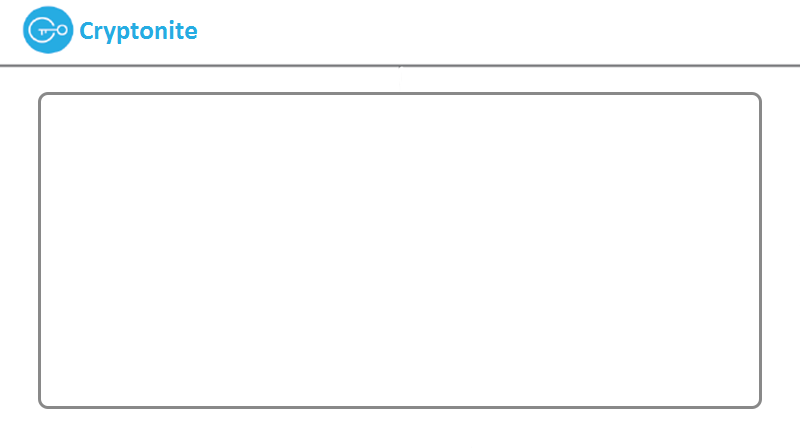
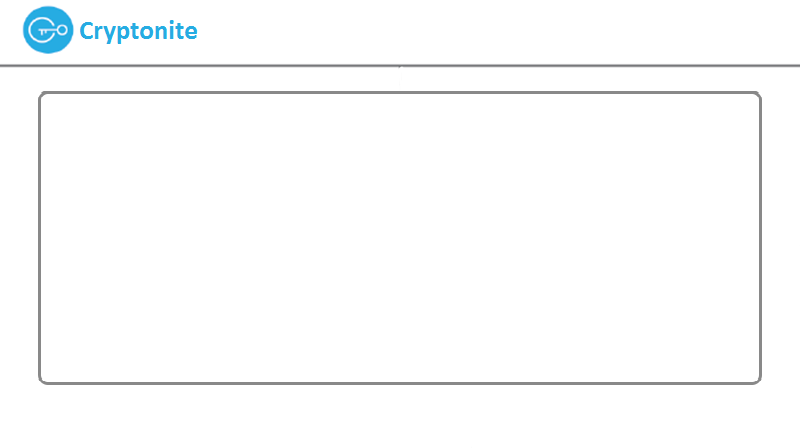
UPDATE

Changed region(s): [[0.0312, 0.8438, 0.9688, 0.9062], [0.0625, 0.9062, 0.9375, 0.9375], [0.0625, 0.1875, 0.9375, 0.2188]]

diff --git a/Cryptonite/src/Client/Client_Invitation.java b/Cryptonite/src/Client/Client_Invitation.java
@@ -135,7 +135,7 @@ public class Client_Invitation extends JFrame{
           
            scrollPane = new JScrollPane(_list);
            scrollPane.setVisible(true);
-           scrollPane.setBounds(45, 100, 690, 300);
+           scrollPane.setBounds(45, 95, 707, 287);
 		}
         
 		allocator();
@@ -172,9 +172,9 @@ public class Client_Invitation extends JFrame{
 	}
 	public void allocator()
 	{
-		_Ok = new JButton(new ImageIcon("img/OK.png"));
-		_Ok.setPressedIcon(new ImageIcon("img/OKR.png"));
-		_Ok.setBounds(240, 400, 80,40);
+		_Ok = new JButton(new ImageIcon("img/select.png"));
+		_Ok.setRolloverIcon(new ImageIcon("img/selectR.png"));
+		_Ok.setBounds(347, 400, 80,40);
 		_Ok.setFocusPainted(false);
 		_Ok.setContentAreaFilled(false);
 		_Ok.setBorderPainted(false);
